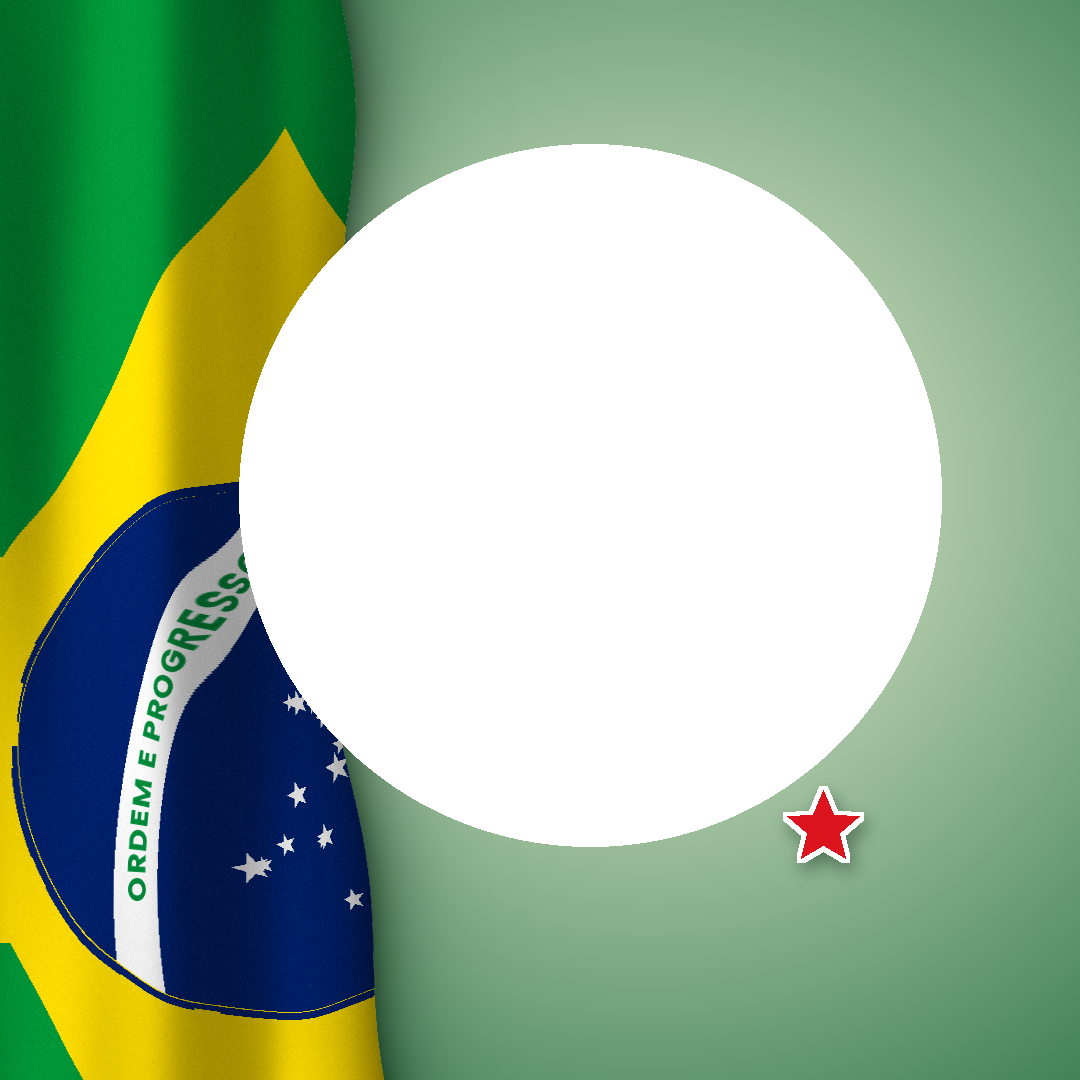
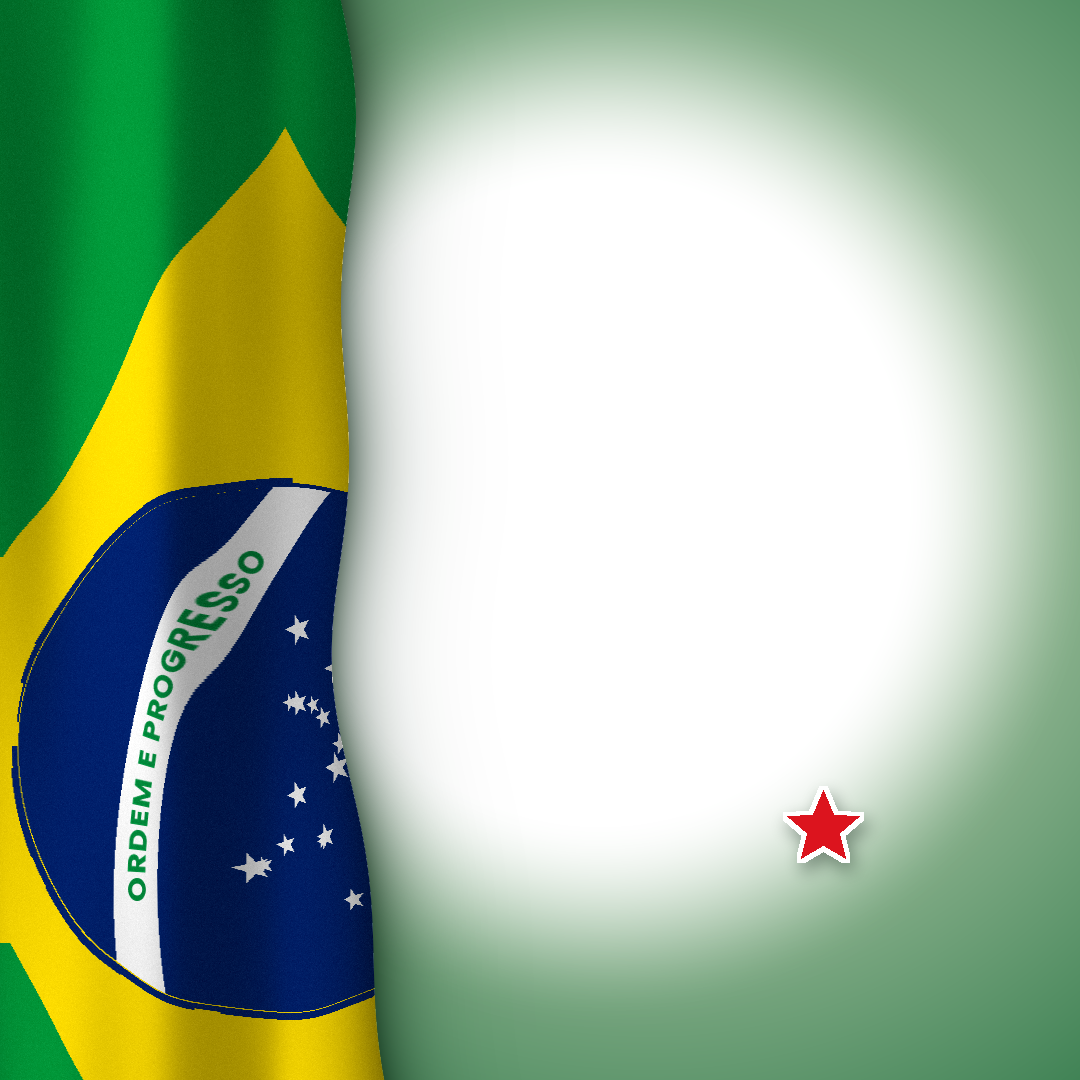
Perfil com foto integrada à moldura

Changed region(s): [[0.2139, 0.0306, 0.9778, 0.9167]]

diff --git a/index.html b/index.html
@@ -117,8 +117,8 @@ footer a { color: var(--red); }
   </header>
 
   <div class="seg" role="group" aria-label="Formato">
-    <button type="button" id="fmt-perfil" data-fmt="perfil" aria-pressed="false">Perfil<small>círculo</small></button>
-    <button type="button" id="fmt-post" data-fmt="post" aria-pressed="true">Post<small>1080×1080</small></button>
+    <button type="button" id="fmt-perfil" data-fmt="perfil" aria-pressed="true">Perfil<small>círculo</small></button>
+    <button type="button" id="fmt-post" data-fmt="post" aria-pressed="false">Post<small>1080×1080</small></button>
     <button type="button" id="fmt-story" data-fmt="story" aria-pressed="false">Story<small>1080×1920</small></button>
   </div>
 
@@ -174,7 +174,7 @@ footer a { color: var(--red); }
   const HAND = {"post": {"x": 765, "y": 734, "w": 293, "h": 380}, "story": {"x": 711, "y": 1510, "w": 347, "h": 450}, "perfil": {"x": 610, "y": 762, "w": 254, "h": 330}};
   const handImg = new Image(), handHl = new Image();
   handImg.onload = draw; handHl.onload = draw;
-  handImg.src = "frames/mao.png?v=11"; handHl.src = "frames/mao-brilho.png?v=8";
+  handImg.src = "frames/mao.png?v=12"; handHl.src = "frames/mao-brilho.png?v=8";
   let handColor = "#f7a632";
   const tint = document.createElement("canvas");
   function tintedHand(w, h) {
@@ -191,7 +191,7 @@ footer a { color: var(--red); }
     if (handHl.complete && handHl.naturalWidth) t.drawImage(handHl, 0, 0, w, h);
     return tint;
   }
-  const state = { fmt: "post", img: null, zoom: 1, ox: 0, oy: 0 };
+  const state = { fmt: "perfil", img: null, zoom: 1, ox: 0, oy: 0 };
   const cv = document.getElementById("cv");
   const ctx = cv.getContext("2d");
   const $ = (id) => document.getElementById(id);
@@ -199,7 +199,7 @@ footer a { color: var(--red); }
   for (const k of Object.keys(SIZES)) {
     const im = new Image();
     im.onload = draw;
-    im.src = "frames/" + k + ".png?v=11";
+    im.src = "frames/" + k + ".png?v=12";
     frames[k] = im;
   }
 
